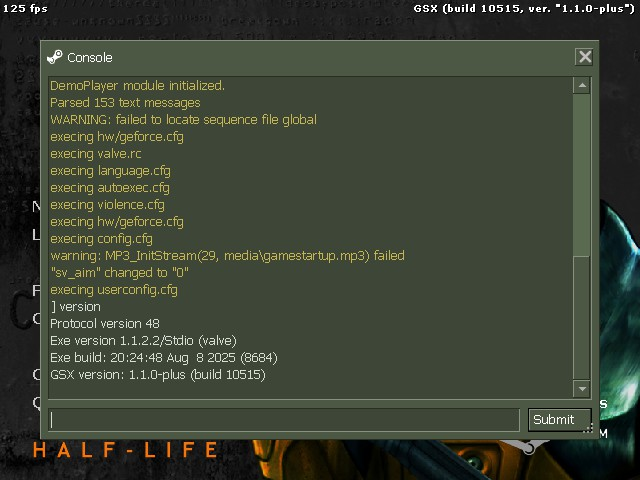
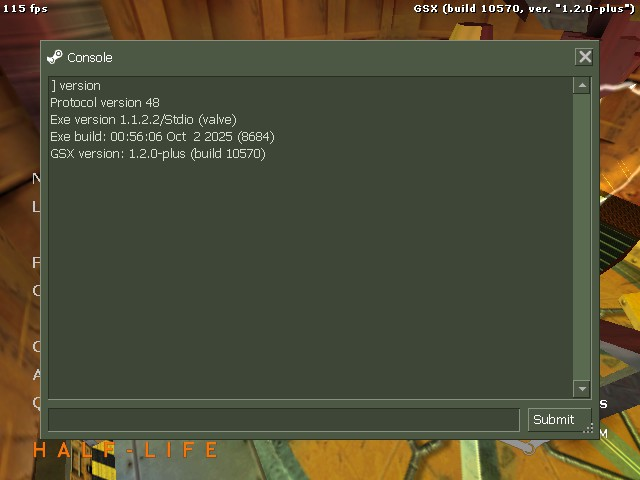
1.2.0-plus

Changed region(s): [[0.0, 0.0, 1.0, 1.0]]

diff --git a/gsx/changelog.html b/gsx/changelog.html
@@ -17,6 +17,40 @@
             <br>
 
             <pre class="console">
+                <strong>v1.2.0 (plus) - October 2, 2025</strong>
+
+                Engine:
+                - Implemented PNG snapshots
+                - Implemented PNG backgrounds support for loading screen
+                - Implemented `joinlast` command (join latest server even if you quit)
+                - Implemented `cl_fixmodelinterpolationartifacts` cvar from HL25
+                - Implemented `gl_widescreen_yfov` cvar from HL25
+                - Implemented `cl_check_gamedir` cvar
+                - Increased max sky resolution from 256x256 to 512x512
+                - Fixed possibly uninitialized trace in PM_TraceModel
+                - Fixed WAD files array overflow (new error - too many wad files)
+                - Fixed downloading from FastDL not working after reconnecting
+                - Game won't crash anymore if WAD file doesn't exist
+                - Raw input is now used in every mod, not only official ones
+                - Now only gamestartup.mp3 stops after connecting
+                - Steam API init error is now more detailed
+                - GSX API is now WIP
+
+                GameUI:
+                - Added PNG backgrounds support (MODNAME/resource/background.png)
+                - Added BSP backgrounds support (background.bsp)
+                - Fixed not being able to open VGUI modules in multiple instnaces
+
+                Launcher:
+                - Added update checker (can be disabled with `-noupdatecheck` param)
+                - Changed icon (by @anewnick)
+                - Matched resource info so DPI awareness works from now
+                - Implemented -low, -high, -textmode parameters
+                - Mutex can be now ignored with `-ignoremutex`
+                
+            </pre>
+
+            <pre class="console">
                 <strong>v1.1.1 (plus) - August 12, 2025</strong>
 
                 Engine:
